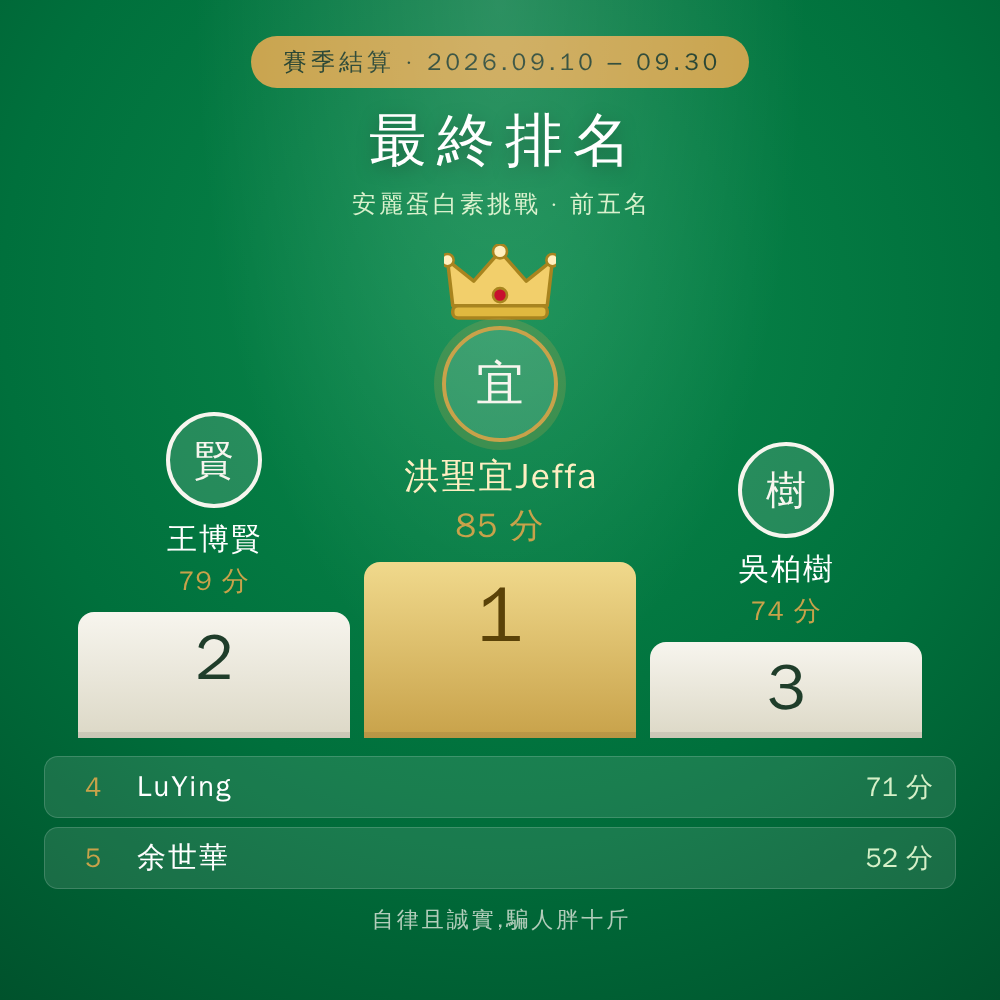
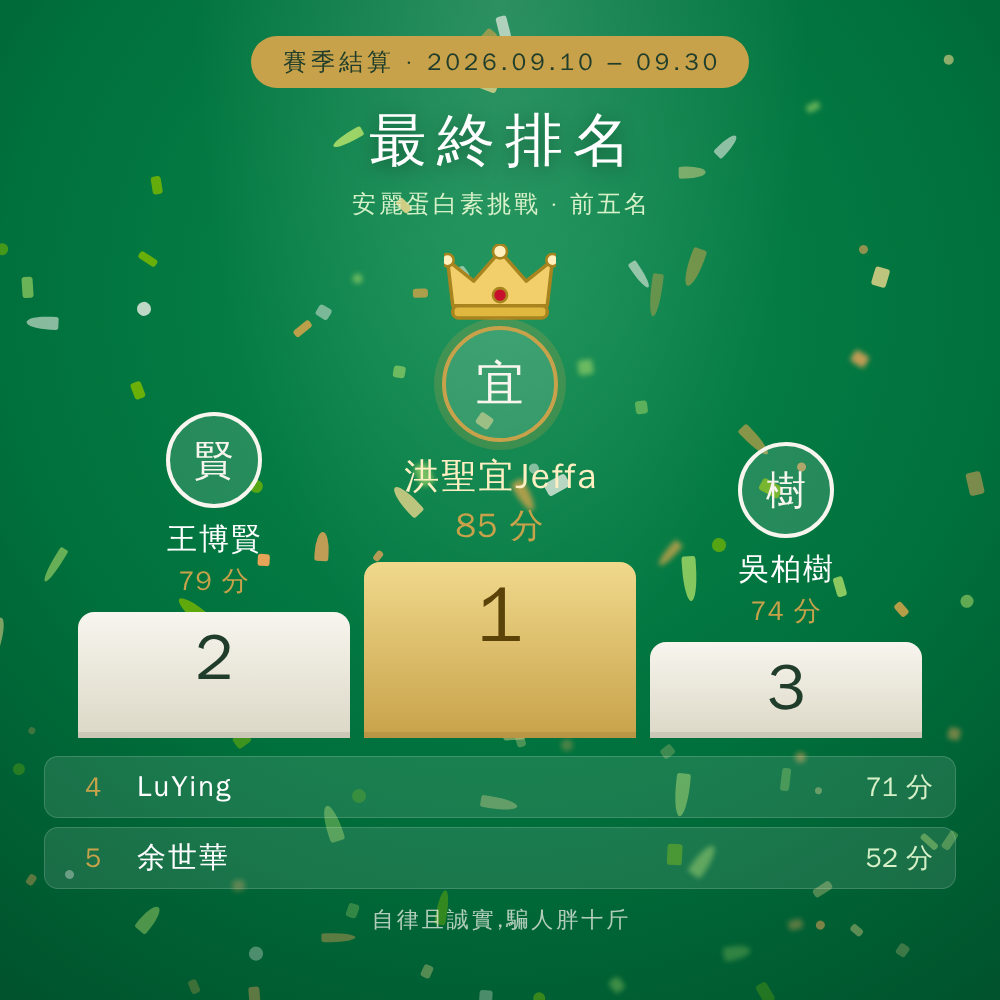
結算卡背景加彩花
110 片紙花,三種形狀(方片/圓點/捲曲緞帶),上密下疏、下半部降透明度,
少數幾片加模糊做前後景深。全部壓在 z-index:0,文字另外抬到 1,不會蓋到名次。

用固定種子亂數(mulberry32)生成,不是 Math.random —— 每次重跑產圖長得一模一樣,
不會「這次跟上次不一樣」。

三組配色放在 PALETTES,用 ?p=a|b|c 切換預覽,定案後把 PICK 寫死:
  a 紐崔萊自然(預設) / b 嘉年華跳色 / c 莓果抹茶巧克力
目前 final.png 是 a,等使用者挑完再換。

Claude-Session: https://claude.ai/code/session_0163dLuJhBeeC9YiCLyyQuvx

diff --git a/amway-protein/final-card.html b/amway-protein/final-card.html
@@ -60,9 +60,24 @@
 
   .honesty{margin-top:16px;font-size:22px;letter-spacing:3px;text-indent:3px;
            color:rgba(247,245,238,.72)}
+
+  /* ── 彩花 ── 繽紛的紙花灑在背景。用種子亂數生成,所以每次重跑產圖長得一模一樣,
+     不會「這次跟上次不一樣」。全部壓在 z-index:0,文字另外抬到 1,不會蓋到字。 */
+  .confetti{position:absolute;inset:0;overflow:hidden;z-index:0;pointer-events:none}
+  .confetti i{position:absolute;display:block}
+  .confetti i.rect{border-radius:3px}
+  .confetti i.dot{border-radius:50%}
+  /* 緞帶:細長的弧形紙條,用兩個不同圓角做出捲曲感 */
+  .confetti i.ribbon{border-radius:60% 60% 20% 20% / 90% 90% 10% 10%}
+  /* 離鏡頭近的那幾片糊掉,畫面才有前後景深,不是一張貼紙 */
+  .confetti i.near{filter:blur(2.5px)}
+
+  /* 文字與頒獎台抬到彩花之上 */
+  .badge,.title,.sub,.rest,.honesty{position:relative;z-index:1}
 </style>
 <div class="stage">
   <div class="beam"></div>
+  <div class="confetti" id="confetti"></div>
 
   <div class="badge">賽季結算 · 2026.09.10 – 09.30</div>
   <div class="title">最終排名</div>
@@ -112,3 +127,50 @@
 
   <div class="honesty">自律且誠實,騙人胖十斤</div>
 </div>
+
+<script>
+// 三組配色,用 ?p=a|b|c 切換;預設 a。要定案就把 PICK 寫死。
+const PALETTES = {
+  a: ['#C8A24A','#F0D98C','#7AB800','#B7E36B','#F7F5EE','#F2A65A'],            // 紐崔萊自然
+  b: ['#FF5E8A','#FFC93C','#49C6E5','#FF8A3D','#A06CD5','#F7F5EE'],            // 嘉年華跳色
+  c: ['#F2789F','#8FD14F','#8B5E3C','#C8A24A','#F7F5EE','#C8E6A0']             // 莓果/抹茶/巧克力
+};
+const PICK = new URLSearchParams(location.search).get('p') || 'a';
+const COLORS = PALETTES[PICK];
+
+// 固定種子的亂數(mulberry32)。不用 Math.random,否則每次產圖都不一樣。
+function rng(seed){ return function(){
+  seed |= 0; seed = seed + 0x6D2B79F5 | 0;
+  let t = Math.imul(seed ^ seed >>> 15, 1 | seed);
+  t = t + Math.imul(t ^ t >>> 7, 61 | t) ^ t;
+  return ((t ^ t >>> 14) >>> 0) / 4294967296;
+}; }
+const rand = rng(20260930);
+const pick = (a) => a[Math.floor(rand() * a.length)];
+const between = (lo, hi) => lo + rand() * (hi - lo);
+
+const box = document.getElementById('confetti');
+const SHAPES = ['rect','rect','dot','ribbon'];
+let html = '';
+for (let i = 0; i < 110; i++) {
+  const shape = pick(SHAPES);
+  const near  = rand() < 0.18;
+  // 上半部密、下半部疏 —— 像剛從頭頂灑下來,底下那排名次也才不會太花
+  const top   = Math.pow(rand(), 0.75) * 100;
+  const left  = between(-2, 100);
+  const w = shape === 'dot' ? between(7, 15)
+          : shape === 'ribbon' ? between(9, 15)
+          : between(10, 24);
+  const h = shape === 'dot' ? w
+          : shape === 'ribbon' ? between(26, 46)
+          : between(7, 15);
+  // 越下面越透明,視覺重心才留在頒獎台
+  const op = between(0.45, 0.95) * (top > 62 ? 0.55 : 1);
+  html += `<i class="${shape}${near ? ' near' : ''}" style="`
+        + `top:${top.toFixed(2)}%;left:${left.toFixed(2)}%;`
+        + `width:${w.toFixed(1)}px;height:${h.toFixed(1)}px;`
+        + `background:${pick(COLORS)};opacity:${op.toFixed(2)};`
+        + `transform:rotate(${between(-180, 180).toFixed(1)}deg)"></i>`;
+}
+box.innerHTML = html;
+</script>
